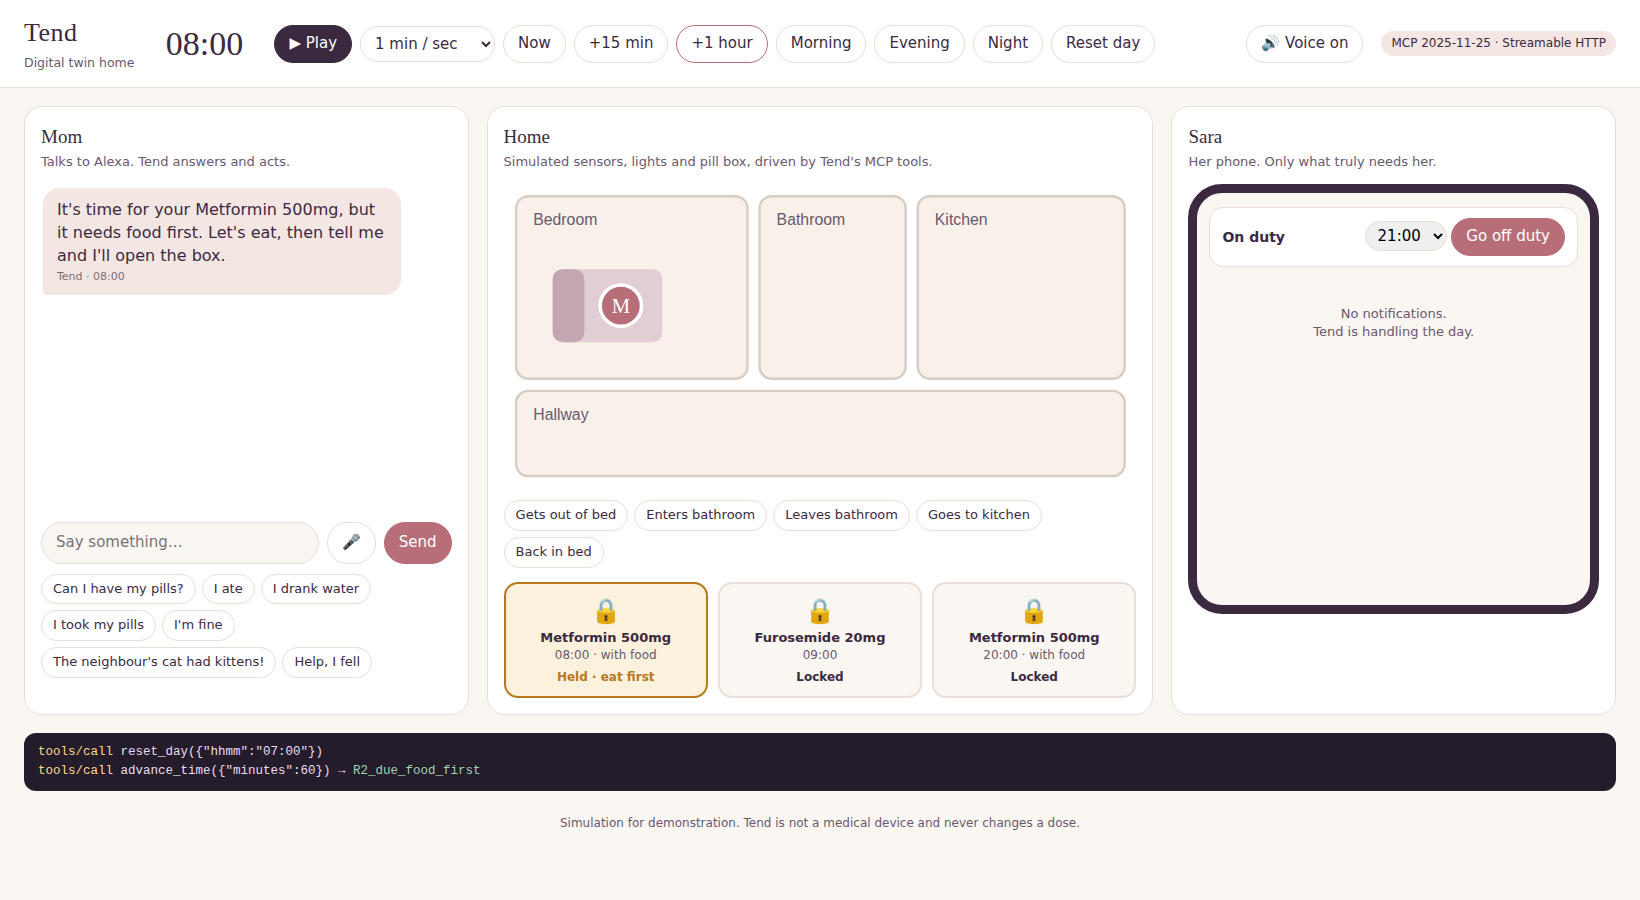
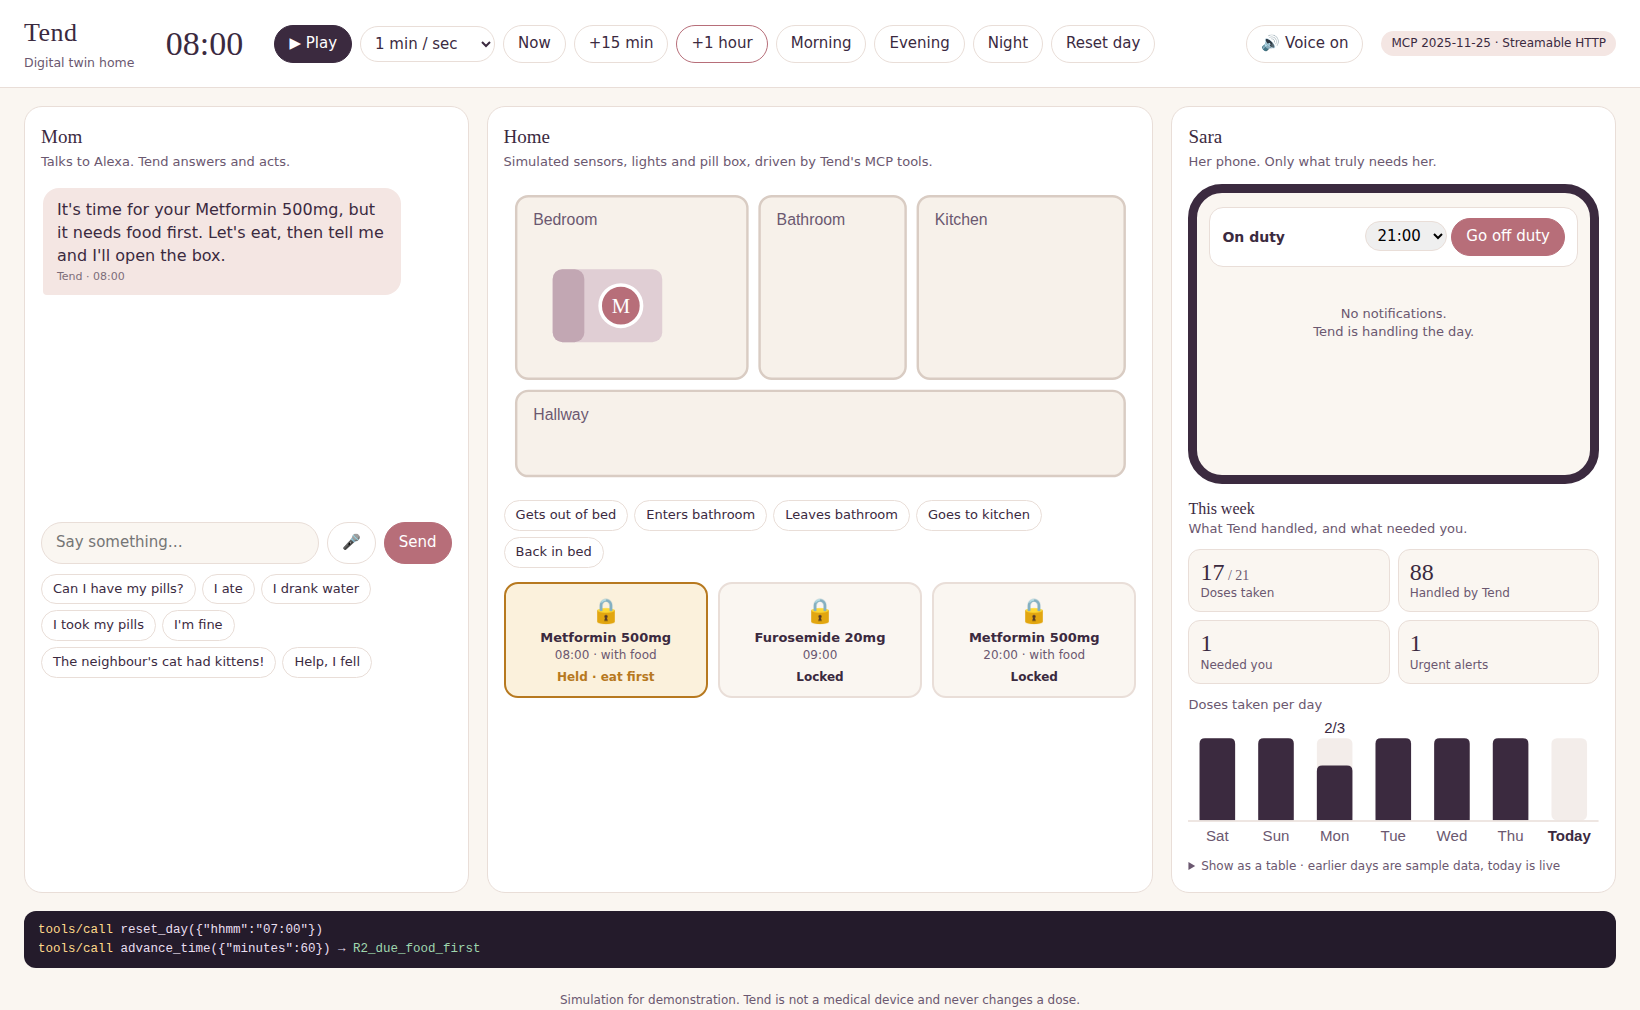
Week view for the caregiver, updated README and screenshots

diff --git a/twin/index.html b/twin/index.html
@@ -81,7 +81,7 @@
 
   /* Sara */
   .phone { border: 9px solid var(--plum); border-radius: 34px; padding: 14px 12px; background: var(--ivory);
-           min-height: 430px; }
+           min-height: 300px; }
   .phone.shake { animation: shake .5s 2; }
   @keyframes shake { 25% { transform: translateX(-5px) } 75% { transform: translateX(5px) } }
   #duty { display: flex; align-items: center; justify-content: space-between; gap: 8px;
@@ -100,6 +100,30 @@
   .note.recap { border-left-color: var(--rose); background: var(--blush); }
   .empty { color: var(--plum-soft); font-size: 13px; text-align: center; padding: 26px 8px; }
   #queued { font-size: 12px; color: var(--plum-soft); margin-top: 8px; text-align: center; }
+
+  /* Week view */
+  .week { margin-top: 16px; }
+  .week h3 { font: 500 16px Georgia, serif; margin: 0 0 2px; }
+  .tiles { display: grid; grid-template-columns: 1fr 1fr; gap: 8px; margin: 10px 0 12px; }
+  .tile { background: var(--ivory); border: 1px solid var(--line); border-radius: 12px; padding: 9px 11px; }
+  .tile .num { font: 500 24px Georgia, serif; color: var(--plum); line-height: 1.1; }
+  .tile .num small { font-size: 14px; color: var(--plum-soft); }
+  .tile .cap { font-size: 12px; color: var(--plum-soft); }
+  #weekchart { width: 100%; display: block; overflow: visible; }
+  #weekchart .track { fill: var(--line); opacity: .55; }
+  #weekchart .bar { fill: var(--plum); }
+  #weekchart .hit { fill: transparent; cursor: default; }
+  #weekchart .hit:hover + .hl, #weekchart .hit:focus + .hl { opacity: 1; }
+  #weekchart .hl { fill: none; stroke: var(--rose); stroke-width: 1.5; opacity: 0; pointer-events: none; }
+  #weekchart text { font: 11px "Segoe UI", sans-serif; fill: var(--plum-soft); }
+  #weekchart text.today { fill: var(--plum); font-weight: 700; }
+  #weekchart text.val { fill: var(--plum); }
+  #weektip { position: fixed; z-index: 5; background: var(--plum); color: #fff; font-size: 12px; line-height: 1.45;
+             padding: 7px 10px; border-radius: 9px; pointer-events: none; display: none; max-width: 220px; }
+  .week details { margin-top: 8px; font-size: 12px; color: var(--plum-soft); }
+  .week table { width: 100%; border-collapse: collapse; margin-top: 6px; }
+  .week th, .week td { text-align: right; padding: 3px 4px; border-bottom: 1px solid var(--line); }
+  .week th:first-child, .week td:first-child { text-align: left; }
 
   /* MCP log */
   #logwrap { margin: 0 24px 24px; }
@@ -187,9 +211,19 @@
       <div id="inbox"></div>
       <div id="queued"></div>
     </div>
+    <div class="week">
+      <h3>This week</h3>
+      <div class="sub" style="margin-bottom:0">What Tend handled, and what needed you.</div>
+      <div class="tiles" id="tiles"></div>
+      <div class="sub" style="margin-bottom:4px">Doses taken per day</div>
+      <svg id="weekchart" viewBox="0 0 300 96" role="img" aria-label="Doses taken per day this week"></svg>
+      <details><summary>Show as a table · earlier days are sample data, today is live</summary>
+        <table id="weektable"></table></details>
+    </div>
   </section>
 </main>
 
+<div id="weektip"></div>
 <div id="logwrap"><div id="log"></div></div>
 <div class="disc">Simulation for demonstration. Tend is not a medical device and never changes a dose.</div>
 
@@ -275,6 +309,7 @@ function render() {
     $("pillbox").appendChild(el);
   }
 
+  renderWeek(s.week);
   const off = !!s.off_duty_until;
   $("duty").classList.toggle("off", off);
   $("dutytxt").textContent = off ? "Off duty until " + s.off_duty_until : "On duty";
@@ -301,6 +336,44 @@ function render() {
   }
   seenInbox = s.caregiver_inbox.length;
 }
+
+function renderWeek(w) {
+  if (!w) return;
+  const t = w.totals, tile = (num, cap) => `<div class="tile"><div class="num">${num}</div><div class="cap">${cap}</div></div>`;
+  $("tiles").innerHTML =
+    tile(`${t.doses_taken}<small> / ${t.doses_due}</small>`, "Doses taken") +
+    tile(t.handled, "Handled by Tend") +
+    tile(t.needs_you, "Needed you") +
+    tile(t.urgent, "Urgent alerts");
+  // One series, one hue: a bar per day on a faint track showing the doses due.
+  const n = w.days.length, slot = 300 / 7, bw = 26, top = 14, base = 74, H = base - top;
+  let svg = "";
+  w.days.forEach((d, i) => {
+    const x = (7 - n + i) * slot + (slot - bw) / 2, isToday = i === n - 1;
+    const hgt = d.doses_due ? H * d.doses_taken / d.doses_due : 0, y = base - hgt;
+    const tip = `${d.label}${isToday ? " (today, live)" : d.sample ? " (sample)" : ""}: ${d.doses_taken} of ${d.doses_due} doses` +
+      (d.missed ? `, ${d.missed} missed` : "") + `. Tend handled ${d.handled}; needed you ${d.needs_you}; urgent ${d.urgent}.`;
+    svg += `<rect class="track" x="${x}" y="${top}" width="${bw}" height="${H}" rx="4"/>`;
+    if (hgt > 0) svg += `<path class="bar" d="M${x} ${base}V${y + 4}q0 -4 4 -4h${bw - 8}q4 0 4 4V${base}z"/>`;
+    if (d.doses_taken < d.doses_due && !isToday) svg += `<text class="val" x="${x + bw / 2}" y="${top - 4}" text-anchor="middle">${d.doses_taken}/${d.doses_due}</text>`;
+    svg += `<text class="${isToday ? "today" : ""}" x="${x + bw / 2}" y="${base + 15}" text-anchor="middle">${isToday ? "Today" : d.label}</text>`;
+    svg += `<rect class="hit" tabindex="0" x="${x - 6}" y="0" width="${bw + 12}" height="96" data-tip="${tip}"/>` +
+           `<rect class="hl" x="${x - 2}" y="${top - 2}" width="${bw + 4}" height="${H + 4}" rx="6"/>`;
+  });
+  svg += `<line x1="0" x2="300" y1="${base + .5}" y2="${base + .5}" stroke="var(--line)"/>`;
+  $("weekchart").innerHTML = svg;
+  $("weektable").innerHTML = "<tr><th>Day</th><th>Doses</th><th>Missed</th><th>Handled</th><th>Needed you</th><th>Urgent</th></tr>" +
+    w.days.map((d, i) => `<tr><td>${i === n - 1 ? "Today" : d.label}</td><td>${d.doses_taken}/${d.doses_due}</td><td>${d.missed}</td><td>${d.handled}</td><td>${d.needs_you}</td><td>${d.urgent}</td></tr>`).join("");
+}
+const tipEl = () => $("weektip");
+document.addEventListener("mousemove", e => {
+  const t = e.target.closest && e.target.closest(".hit");
+  if (!t) { tipEl().style.display = "none"; return; }
+  tipEl().textContent = t.dataset.tip; tipEl().style.display = "block";
+  const w = tipEl().offsetWidth;
+  tipEl().style.left = Math.min(e.clientX + 12, innerWidth - w - 8) + "px";
+  tipEl().style.top = (e.clientY - tipEl().offsetHeight - 10) + "px";
+});
 
 async function run(fn) {
   if (busy) { setTimeout(() => run(fn), 120); return; }  // wait for the call in flight

diff --git a/tend/engine.py b/tend/engine.py
@@ -107,6 +107,7 @@ class HomeState:
     handled: list[dict] = field(default_factory=list)  # done silently while off duty
     moments: list[str] = field(default_factory=list)   # nice things from her day
     day: Optional[object] = None                        # the date the daily state belongs to
+    history: list[dict] = field(default_factory=list)   # one summary per finished day
 
 
 # ---------------------------------------------------------------- engine
@@ -122,6 +123,8 @@ class TendEngine:
         st = self.state
         if self.clock.now.date() == st.day:
             return
+        st.history.append(self.day_stats(st.day))       # close the day that just ended
+        st.history = st.history[-6:]
         st.day = self.clock.now.date()
         st.locked = {m.compartment: True for m in self.plan.medications}
         st.taken.clear(); st.held_for_food.clear(); st.unlocked_at.clear()
@@ -251,6 +254,7 @@ class TendEngine:
         if event == "left_bed" and self._is_night():
             for room in ("bedroom", "hallway", "bathroom"):
                 self.state.lights[room] = True
+            self._log("lights", on=True)
             return self._route([Decision("lights_on", "I've turned on the lights to the bathroom.",
                                          rule="R8_night_light_path")])
         if event == "back_in_bed" and self._is_night():
@@ -459,6 +463,8 @@ class TendEngine:
         st, stamp = self.state, self.clock.now.strftime("%H:%M")
         for d in decisions:
             item = {"time": stamp, "message": d.message, "severity": d.severity, "rule": d.rule}
+            if d.severity in ("urgent", "escalate"):
+                self._log("alert", severity=d.severity, rule=d.rule)
             if d.severity == "urgent":
                 d.caregiver = "alerted"
                 st.inbox.append(item)
@@ -546,9 +552,36 @@ class TendEngine:
         self.state.checkin_sent_at = None
         self.state.checkin_reason = ""
 
+    # -- The caregiver's week: what Tend did, and what it needed her for
+    HANDLED = {"remind", "checkin", "unlock", "offer_unlock", "offer_held", "held_for_food",
+               "request_denied", "lights"}
+
+    def day_stats(self, day) -> dict:
+        ev = [e for e in self.state.events if e["time"][:10] == day.isoformat()]
+        count = lambda kind: sum(e["kind"] == kind for e in ev)
+        alerts = [e for e in ev if e["kind"] == "alert"]
+        return {
+            "date": day.isoformat(), "label": day.strftime("%a"), "sample": False,
+            "doses_taken": count("taken"), "doses_due": len(self.plan.medications),
+            "missed": count("missed"), "meals": count("meal"), "water": count("water"),
+            "handled": sum(e["kind"] in self.HANDLED for e in ev),
+            "needs_you": sum(a["severity"] == "escalate" for a in alerts),
+            "urgent": sum(a["severity"] == "urgent" for a in alerts),
+        }
+
+    def week_summary(self) -> dict:
+        self._roll_day()
+        days = self.state.history[-6:] + [self.day_stats(self.clock.now.date())]
+        total = lambda key: sum(d[key] for d in days)
+        return {"days": days, "totals": {
+            "doses_taken": total("doses_taken"), "doses_due": total("doses_due"),
+            "handled": total("handled"), "needs_you": total("needs_you"),
+            "urgent": total("urgent"), "missed": total("missed")}}
+
     def snapshot(self) -> dict:
         self._roll_day()
         return {
+            "week": self.week_summary(),
             "time": self.clock.now.strftime("%H:%M"),
             "locked": {str(k): v for k, v in self.state.locked.items()},
             "patient": self.plan.patient_name,

diff --git a/server.py b/server.py
@@ -5,7 +5,7 @@ Then:  connect MCP Inspector to http://127.0.0.1:8000/mcp
 """
 
 from dataclasses import asdict
-from datetime import datetime
+from datetime import datetime, timedelta
 from pathlib import Path
 
 from mcp.server.fastmcp import FastMCP
@@ -14,9 +14,27 @@ from tend.engine import CarePlan, SimClock, TendEngine
 
 PLAN_PATH = Path(__file__).parent / "care_plan.json"
 
+# Six earlier days of SAMPLE data so the week view has something to show in a demo.
+# Each row: doses taken, missed, meals, water, handled by Tend, needed caregiver, urgent.
+SAMPLE_WEEK = [(3, 0, 3, 5, 14, 0, 0), (3, 0, 3, 6, 15, 0, 0), (2, 1, 2, 4, 13, 1, 0),
+               (3, 0, 3, 5, 16, 0, 0), (3, 0, 3, 6, 14, 0, 1), (3, 0, 3, 5, 15, 0, 0)]
+
+
+def _seed_sample_week(eng: TendEngine) -> None:
+    today = eng.clock.now.date()
+    for i, (taken, missed, meals, water, handled, needs, urgent) in enumerate(SAMPLE_WEEK):
+        day = today - timedelta(days=len(SAMPLE_WEEK) - i)
+        eng.state.history.append({
+            "date": day.isoformat(), "label": day.strftime("%a"), "sample": True,
+            "doses_taken": taken, "doses_due": len(eng.plan.medications), "missed": missed,
+            "meals": meals, "water": water, "handled": handled,
+            "needs_you": needs, "urgent": urgent})
+
+
 plan = CarePlan.load(PLAN_PATH)
 clock = SimClock(datetime.now().replace(hour=7, minute=0, second=0, microsecond=0))
 engine = TendEngine(plan, clock)
+_seed_sample_week(engine)
 
 
 def _new_day(hhmm: str = "07:00") -> None:
@@ -25,6 +43,7 @@ def _new_day(hhmm: str = "07:00") -> None:
     h, m = map(int, hhmm.split(":"))
     clock = SimClock(datetime.now().replace(hour=h, minute=m, second=0, microsecond=0))
     engine = TendEngine(CarePlan.load(PLAN_PATH), clock)
+    _seed_sample_week(engine)
 
 mcp = FastMCP(
     "tend",
@@ -102,6 +121,13 @@ def start_off_duty(until_hhmm: str) -> dict:
 def get_caregiver_inbox() -> dict:
     """What the caregiver's phone shows: alerts and recaps, plus items queued while off duty."""
     return {"inbox": engine.state.inbox, "queued": engine.state.queue}
+
+
+@mcp.tool()
+def get_week_summary() -> dict:
+    """The caregiver's week: doses taken, what Tend handled itself, and what needed her.
+    Earlier days are sample data (marked sample=true); today is live."""
+    return engine.week_summary()
 
 
 @mcp.tool()

diff --git a/tests/test_safety_and_off_duty.py b/tests/test_safety_and_off_duty.py
@@ -202,3 +202,34 @@ def test_recap_is_honest_about_what_is_still_open(engine):
     assert "quiet" not in recap.message
     assert "hasn't had dinner" in recap.message
     assert "20:00 Metformin 500mg hasn't been taken" in recap.message
+
+
+# ---- The caregiver's week view
+def test_week_counts_what_tend_handled_and_what_needed_her(engine):
+    engine.clock.set_time("09:05")
+    engine.request_pills()
+    engine.mark_taken(2)
+    engine.log_water()
+    engine.heard("help")
+    today = engine.week_summary()["days"][-1]
+    assert today["doses_taken"] == 1 and today["doses_due"] == 3
+    assert today["water"] == 1 and today["urgent"] == 1
+    assert today["handled"] >= 1 and today["sample"] is False
+
+
+def test_week_keeps_a_summary_of_each_finished_day(engine):
+    engine.clock.set_time("09:05")
+    engine.request_pills()
+    engine.mark_taken(2)
+    engine.clock.set_time("02:00")           # next day
+    week = engine.week_summary()
+    assert len(week["days"]) == 2
+    assert week["days"][0]["doses_taken"] == 1 and week["days"][1]["doses_taken"] == 0
+    assert week["totals"]["doses_due"] == 6
+
+
+def test_missed_dose_shows_in_the_week(engine):
+    engine.clock.set_time("08:55")
+    run(engine, 70)                          # the 08:00 and 09:00 doses are offered, never taken
+    today = engine.week_summary()["days"][-1]
+    assert today["missed"] == 2 and today["needs_you"] >= 2

diff --git a/README.md b/README.md
@@ -5,7 +5,7 @@
 ![Track](https://img.shields.io/badge/Hackathon-Alexa%2B%20track-B76E79)
 ![MCP](https://img.shields.io/badge/MCP-2025--11--25%20·%20Streamable%20HTTP-3B2A3F)
 ![Python](https://img.shields.io/badge/Python-3.11%2B-3776AB)
-![Tests](https://img.shields.io/badge/tests-41%20passing-5F8068)
+![Tests](https://img.shields.io/badge/tests-44%20passing-5F8068)
 ![License](https://img.shields.io/badge/license-MIT-blue)
 
 > Built for the **Build, Ship, Shape: Amazon Developer Hackathon** (Alexa+ track). All code was written during the submission period.
@@ -39,11 +39,12 @@ The result is a parent who never has to wait for help, and a caregiver whose pho
 - **Off duty mode.** Routine events are handled silently, non-urgent problems are held, urgent ones always get through.
 - **Missed-dose alert.** An offered dose that isn't taken relocks the box and is reported.
 - **One recap, not a list of chores.** When off duty ends: what she ate and took, what still needs attention, and one nice moment from her day.
+- **A week at a glance.** Doses taken, what Tend handled itself, what needed her and how many urgent alerts, with a bar per day.
 - **Urgent words never wait.** "Help", "I fell" or "chest pain" alert the caregiver immediately, off duty or not.
 
 **For developers**
 
-- **A real MCP server** with 14 tools over Streamable HTTP (spec 2025-11-25).
+- **A real MCP server** with 15 tools over Streamable HTTP (spec 2025-11-25).
 - **A deterministic rules engine**, with every rule covered by tests. No LLM in the safety path.
 - **A digital twin home** that makes every MCP call visible as it happens.
 
@@ -59,7 +60,7 @@ The result is a parent who never has to wait for help, and a caregiver whose pho
 | Twin backend (MCP client) | Starlette + Uvicorn |
 | Twin front end | HTML, CSS, vanilla JavaScript, inline SVG |
 | Voice | Web Speech API (speech recognition + synthesis) |
-| Tests | pytest (41 tests) |
+| Tests | pytest (44 tests) |
 
 ---
 
@@ -92,7 +93,7 @@ flowchart TD
     A["Parent's Alexa+<br/>voice in, voice out"] -->|what she says| B
     H["Digital twin home<br/>pill box, lights, sensors"] -->|events| B
     P["Caregiver's phone<br/>alerts, off duty, recap"] <-->|alerts and off duty| B
-    B["Twin backend<br/>MCP client"] <-->|MCP 2025-11-25, Streamable HTTP| S["Tend MCP server<br/>14 tools"]
+    B["Twin backend<br/>MCP client"] <-->|MCP 2025-11-25, Streamable HTTP| S["Tend MCP server<br/>15 tools"]
     S --> E["Rules engine<br/>14 tested rules"]
     E <--> C["Care plan + home state<br/>care_plan.json"]
 ```
@@ -154,7 +155,7 @@ python -m pip install -r requirements.txt
 Check that everything works:
 
 ```powershell
-python -m pytest -v             # 41 passed
+python -m pytest -v             # 44 passed
 ```
 
 ---
@@ -211,6 +212,7 @@ Connect with **Streamable HTTP** to `http://127.0.0.1:8000/mcp`.
 | `note_moment` | Save a nice moment for the recap |
 | `start_off_duty` | Caregiver goes off duty until a time |
 | `get_caregiver_inbox` | Alerts, recaps and held items |
+| `get_week_summary` | The caregiver's week: doses, handled by Tend, needed her, urgent |
 | `advance_time`, `set_time`, `reset_day` | Demo clock controls |
 
 ---
@@ -221,7 +223,7 @@ Connect with **Streamable HTTP** to `http://127.0.0.1:8000/mcp`.
 tend/
 ├── run.py                     # One command: starts everything, opens the page
 ├── start.bat                  # Windows: double-click to start
-├── server.py                  # MCP server: 14 tools over Streamable HTTP
+├── server.py                  # MCP server: 15 tools over Streamable HTTP
 ├── care_plan.json             # Medications, meal times and every threshold
 ├── tend/
 │   └── engine.py              # Rules engine, home state, simulated clock
@@ -245,11 +247,13 @@ tend/
 | Measure | Value |
 |---|---|
 | Rules implemented | 14 |
-| Automated tests | 41, all passing |
-| MCP tools | 14 |
+| Automated tests | 44, all passing |
+| MCP tools | 15 |
 | MCP protocol negotiated | 2025-11-25 over Streamable HTTP |
 | External services required | None; runs fully on one laptop |
 | Cost to run | Zero |
+
+The week view on the caregiver's side counts these as they happen. Its earlier days are **sample data** (marked as such in the app and in the tool's output); only today's column is live.
 
 In the walkthrough above, a calm evening produces **one** notification for the caregiver (the recap) while Tend handles the reminders itself. Urgent words reach her at once, even when she is off duty.
 
@@ -272,7 +276,7 @@ In the walkthrough above, a calm evening produces **one** notification for the c
 - Smarter urgent-word detection: "that was helpful" currently matches "help". A false alarm is the safer failure, but it should be rare.
 - Real devices: Alexa-compatible smart lock pill dispenser, lights and motion sensors in place of the simulation.
 - Deliver caregiver alerts to a real phone: Alexa app notifications first, text messages for urgent alerts, then a small companion app with the Off duty button and recap.
-- A week view for the caregiver: adherence, sleep interruptions, alerts and interruptions avoided.
+- Build the week view from stored history. Today's column is live; the six earlier days are sample data seeded for the demo.
 - Several caregivers with a handover between them.
 - Caregiver-editable care plan in the app instead of a JSON file.
 
